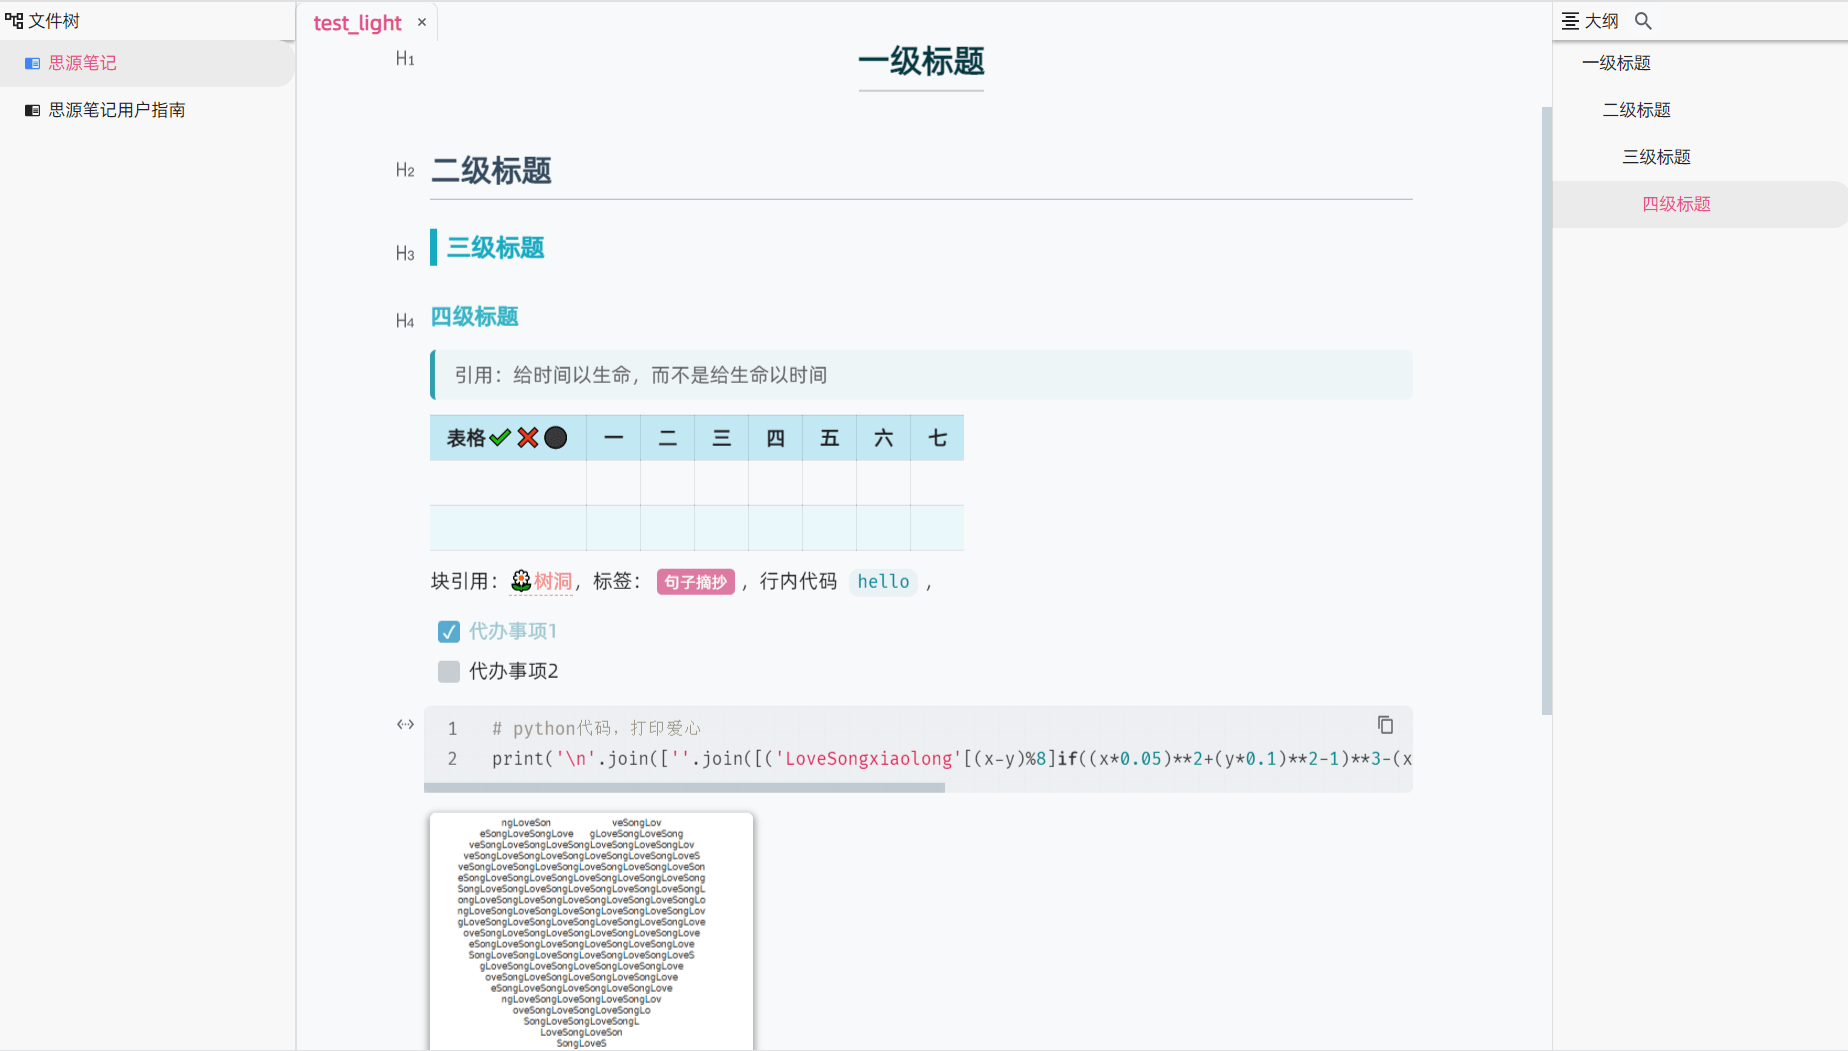
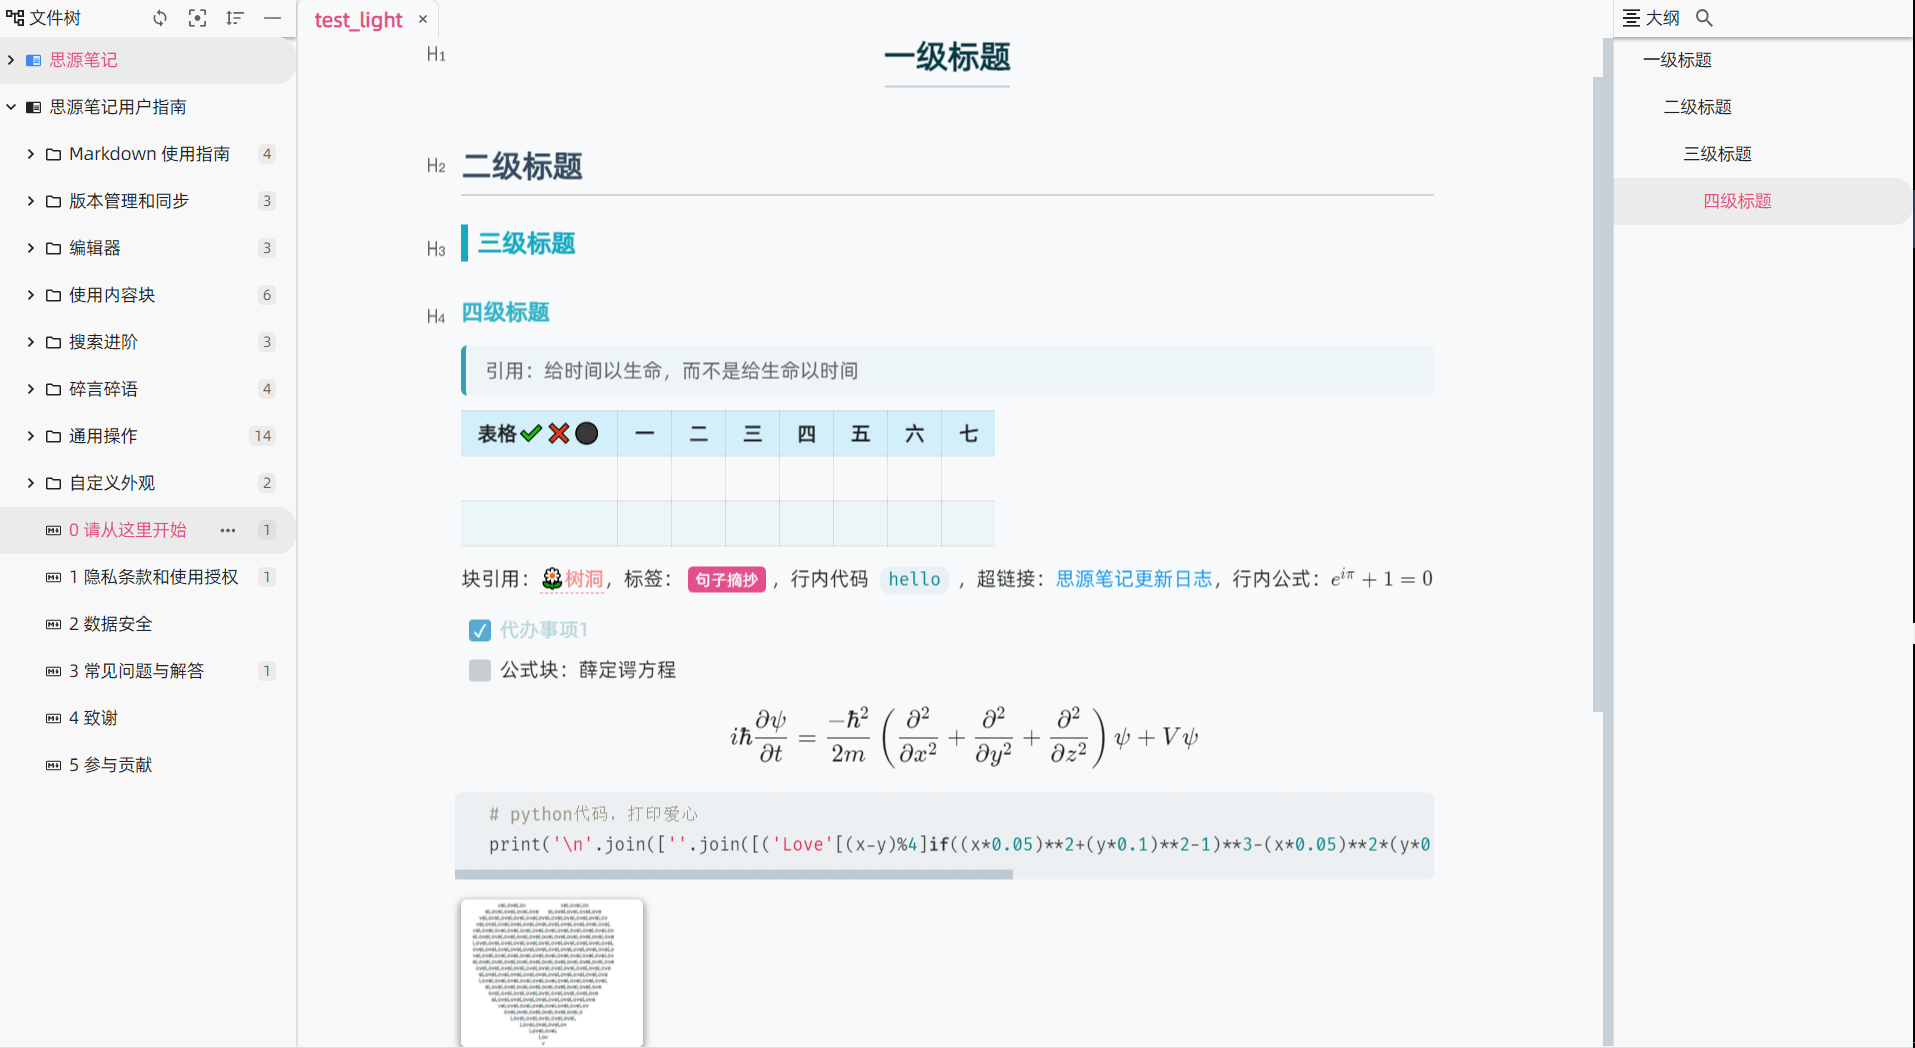
v0.1.8

diff --git a/theme.css b/theme.css
@@ -57,9 +57,9 @@
     --b3-text-border-color: rgb(170, 178, 180);
     /* 表格 */
     --b3-table-border-color: rgba(26, 26, 26, 0.1);
-    --b3-table-th-color: #5ec9e75b;
+    --b3-table-th-color: #8ee1f85b;
     --b3-table-trn-color: #f8f9fa;
-    --b3-table-tr2n-color: #dbf6fd73;
+    --b3-table-tr2n-color: #ecf6f8;
     /* 卡片背景 */
     --b3-card-error-color: rgb(97, 26, 21);
     --b3-card-error-background: rgb(253, 236, 234);
@@ -308,30 +308,51 @@ blockquote {
     color: #038296 !important;
     background-color: #e0ecf3a6;
 }
+
 /* 行内公式块样式*/
 .vditor-reset code[data-type='math-inline'] {
     color: rgb(44, 23, 23);
     background-color: #edf0f2;
 }
-/* 代码块样式 */
-/* 代码编辑区 */
+/* 行内公式字体大小 */
+[data-type="inline-math"] .katex{
+    font: normal 17px KaTeX_Main,Times New Roman,serif !important;
+}
+/* 公式块字体大小 */
+[data-type="math-block"] .katex {
+    font: normal 20px KaTeX_Main,Times New Roman,serif !important;
+}
+/* ❗代码块样式 */
+/* 代码编辑区样式 */
 .vditor-ir__marker--pre code {
     background-color: #f0f3f5a8 !important;
 }
+/* 代码内容块 */
 .hljs {
     line-height: 24px;
     background-color: #f0f3f5 !important;
     /* box-shadow: 0px 0px 10px rgb(204, 214, 212); */
     color: #353739 !important;
-}
-=
+    /* 缩进两个单位 */
+    padding-left: 2em !important; 
 
-/* 代码块样式 */
-.hljs {
-    line-height: 24px;
-    background-color: #1a1e1f !important;
-    box-shadow: 0px 0px 10px rgb(0, 0, 0);
 }
+/* 缩进代码编辑区和公式块 */
+.vditor-reset code:not(.hljs):not([data-type='math-inline']):not([data-newline='1']):not([class='b3-label__text'])  { 
+    padding-left: 2em ;
+}
+
+/* 考虑显示行号时的缩进 */
+.vditor-linenumber {
+    padding-left: 4em !important;
+    position: relative;
+}
+
+/* 考虑到设置里的行内代码 */
+.b3-label__text code {
+    padding: 0.2em 0.5em !important;
+}
+
 /* ❗复选框（待办事项）Start */
 /* 复选框与文字的距离 */
 .vditor-task input[type='checkbox'] {
@@ -556,7 +577,7 @@ div[data-type='navigation'] .b3-list-item--focus,
     display: inline-block;
     font-size: 0.8em;
     line-height: 1em;
-    background-color: #dd7aa3;
+    background-color: #e34f8c;
     border-radius: 4px;
     padding: 4px 6px;
     margin: 0 4px;
@@ -565,7 +586,7 @@ div[data-type='navigation'] .b3-list-item--focus,
 }
 .vditor-ir__tag {
     text-decoration: none;
-    background-color: #dd7aa3;
+    background-color: #e34f8c;
     color: #fff;
 }
 
@@ -592,7 +613,7 @@ div[data-type='navigation'] .b3-list-item--focus,
 .vditor-reset img {
     max-width: 100%;
     cursor: pointer;
-    box-shadow: 0px 2px 5px 2px rgb(6 6 6 / 30%);
+    box-shadow: 0px 1px 5px 1px rgb(6 6 6 / 30%);
     border-radius: 5px;
 }
 /* 文件树页签工具栏样式 */

diff --git a/Readme.md b/Readme.md
@@ -1,23 +1,38 @@
 # 思源主题: mixture(light)
 ![preview](preview.png)
+
 本主题主颜色为青色，主字体为阿里巴巴普惠体，代码字体为Fira Code，浅色主题主要从[Mixture Dark](https://github.com/Achuan-2/siyuan-themes-mixture)暗色主题修改而来，但感觉青出于蓝而胜于蓝，更好看哇！
 希望能逐渐做出简洁又美观的效果呀！
 
+
+## v0.1.8/2021-3-4
+
+好了，我改不动了，要是没什么大问题近期就不改主题了，毕竟自己笔记都没咋写，光弄花架子了
+- 更改行内公式和公式块大小
+- 代码块和公式块编辑缩进，同时考虑到有行号时代码块的缩进。（摸索半天，太折腾了，这边改完那边变）
+- 减小图片阴影
+
 ## v0.1.7/2021-3-4
+
 - 改进行内代码的css代码，避免其影响代码块编辑区
 - 对代码块编辑区样式进行修改
 - 对行内公式编辑样式进行修改
 - 去掉表格阴影
+
 ## v0.1.6/2021-3-4
+
 - 修正行内公式块有多余的代码，把CSS的`.vditor-reset code:not(.hljs){...}`改为`.vditor-reset code:not(.hljs):not([data-type="math-inline"]) {...}`
 - 对已完成代办事项中的加粗、斜体、删除线、超链接进行优化，事项中含有的图片透明度设置为60%，鉴于原先默认设置的删除线可能不方便查看，暂时决定取消，可以自行添加删除(Ctrl+D)，或者自行修改主题,搜索"完成的代办事项下划线",`/* text-decoration: line-through; */`取消注释
 - 更改h3标题与上下文的间距
   
 ## v0.1.5/2021-3-3
+
 - 修复从edge复制的超链接，形如[思源笔记更新日志(ld246.com)](https://ld246.com/tag/siyuan-announcement)，分多块hover高亮的问题
 - 将表格颜色减淡
 - 将图片阴影调小
-## v0.1.4
+
+## v0.1.4/2021-3-3
+
 - 去除选中标签页的背景色
 - 仿照Lavender设置界面动效，更改设置的关闭按钮颜色和hover背景
 - 仿照Passion设置选中项的圆角
@@ -25,5 +40,6 @@
 - 更改代码块和引用块颜色
 - 更改弹出菜单样式
 - 更改编辑区上方工具栏阴影
-## v0.1.0
+
+## v0.1.0/2021-3-2
 - 将Mixture Dark 暗色主题的样式照搬并进行修改
